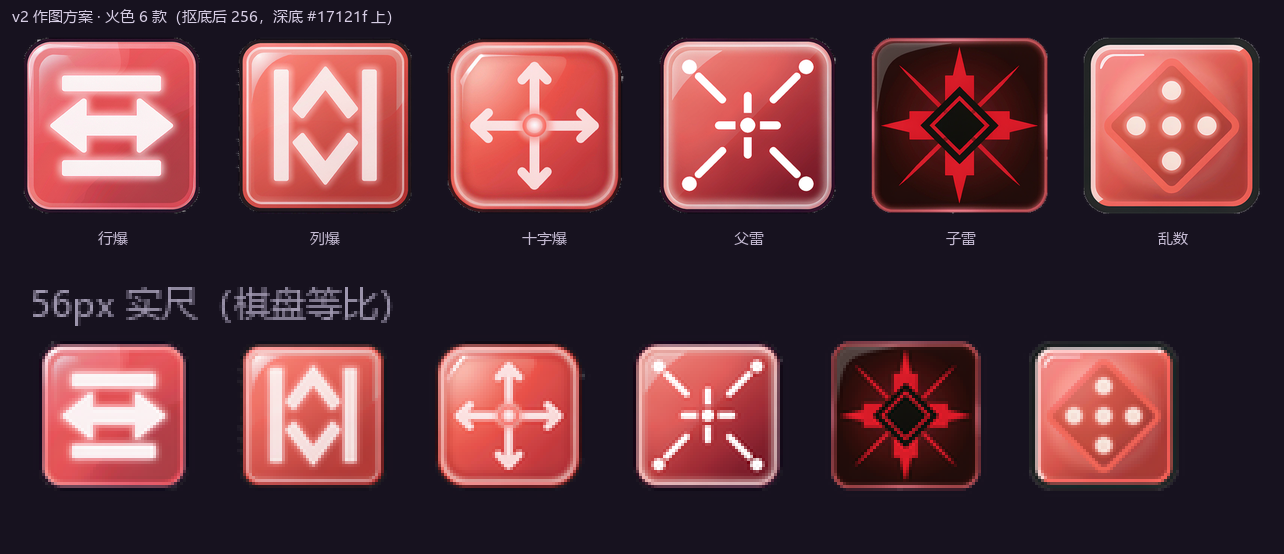
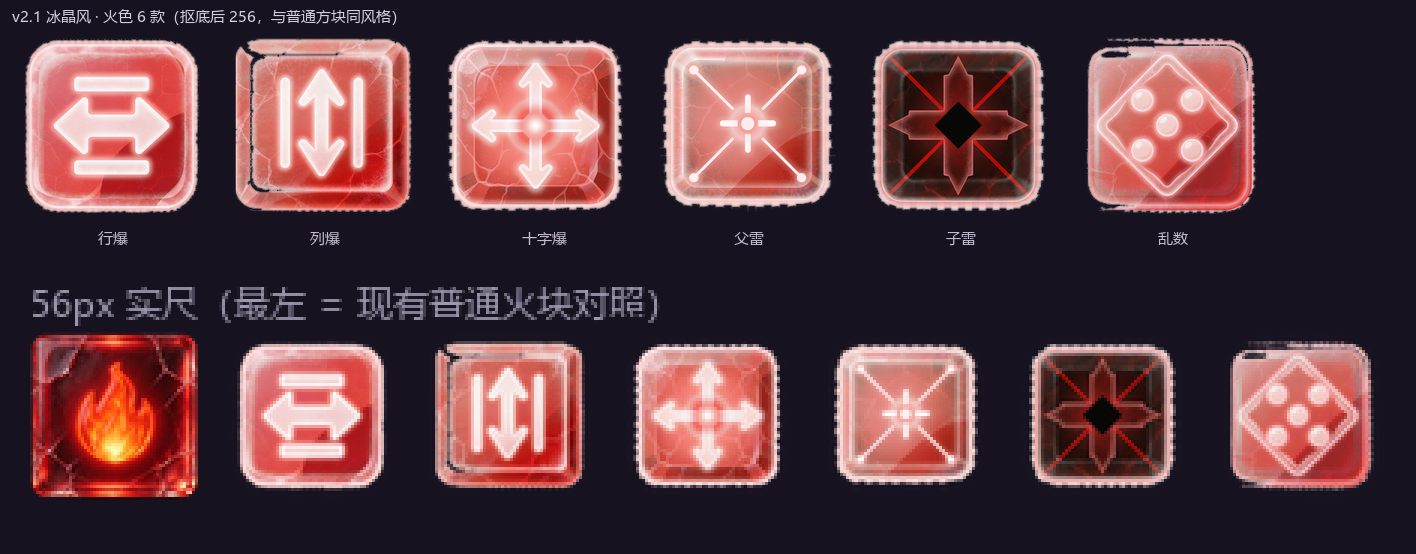
v1.17.37 art(special): 样板风格修正——冰晶风对齐普通方块，火色6款重定稿
- 用户反馈样板与普通方块风格不一致：普通块为半透明冰晶/琉璃（边缘泛白光、
  内部细裂纹、无黑粗描边），首版做成黑粗描边实心糖果玻璃
- A段重写 v2.1：translucent crystal glass + crackle veins + 亮边外发光，
  负面词增补 no thick dark outline / no black border / no opaque plastic
- 火色6款重出定稿（父雷再迭代1版：四角端点由方块改回小圆点）
- 验收图 red_sheet.png 增加 56px 普通火块对照位，材质一致性肉眼可对
- 文档同步：色板'描边#14101b'条目废弃，改'无深色描边'规范

diff --git a/tools/_v2_red_sheet.py b/tools/_v2_red_sheet.py
@@ -4,18 +4,19 @@ import os
 from PIL import Image, ImageDraw, ImageFont, ImageFilter
 from collections import deque
 
-SRC = 'F:/workspace/towerdefence/art/special_blocks_v2/red'
+SRC = 'F:/workspace/towerdefence/art/special_blocks_v2/red2'
 OUT = 'F:/workspace/towerdefence/art/special_blocks_v2'
 TOL = 45
 
 JOBS = [
-    ('row',   '2D_match_3_game_special_tile___2026-10-29T15-44-34.png', '行爆'),
-    ('col',   '2D_match_3_game_special_tile___2026-10-29T15-44-46.png', '列爆'),
-    ('cross', '2D_match_3_game_special_tile___2026-10-29T15-45-01.png', '十字爆'),
-    ('split', '2D_match_3_game_special_tile___2026-10-29T15-49-40.png', '父雷'),
-    ('sub',   '2D_match_3_game_special_tile___2026-10-29T15-48-02.png', '子雷'),
-    ('rand',  '2D_match_3_game_special_tile___2026-10-29T15-50-40.png', '乱数'),
+    ('row',   '2D_match_3_game_tile__a_single_2026-10-29T15-56-25.png', '行爆'),
+    ('col',   '2D_match_3_game_tile__a_single_2026-10-29T15-56-38.png', '列爆'),
+    ('cross', '2D_match_3_game_tile__a_single_2026-10-29T15-56-52.png', '十字爆'),
+    ('split', '2D_match_3_game_tile__a_single_2026-10-29T15-59-17.png', '父雷'),
+    ('sub',   '2D_match_3_game_tile__a_single_2026-10-29T15-57-41.png', '子雷'),
+    ('rand',  '2D_match_3_game_tile__a_single_2026-10-29T15-57-52.png', '乱数'),
 ]
+NORMAL = 'F:/workspace/towerdefence/assets/images/board/fire.png'   # 普通块风格对照
 
 
 def keyout(src):
@@ -155,16 +156,17 @@ for name, fn, label in JOBS:
 C = 200; G = 12
 sheet = Image.new('RGBA', (6 * C + 7 * G, C + 3 * G + 26), (23, 18, 31, 255))
 d = ImageDraw.Draw(sheet)
-d.text((G, 6), 'v2 作图方案 · 火色 6 款（抠底后 256，深底 #17121f 上）', font=font, fill=(214, 205, 228, 255))
+d.text((G, 6), 'v2.1 冰晶风 · 火色 6 款（抠底后 256，与普通方块同风格）', font=font, fill=(214, 205, 228, 255))
 for i, (name, _, label) in enumerate(JOBS):
     sheet.alpha_composite(chips[name].resize((C, C), Image.LANCZOS), (G + i * (C + G), 26))
     d.text((G + i * (C + G) + C // 2 - 14, 26 + C + 2), label, font=font, fill=(196, 186, 210, 255))
 
-row = Image.new('RGBA', (6 * 56 + 7 * 10, 56 + 2 * 10 + 18), (23, 18, 31, 255))
+row = Image.new('RGBA', (7 * 56 + 8 * 10, 56 + 2 * 10 + 18), (23, 18, 31, 255))
 d2 = ImageDraw.Draw(row)
-d2.text((10, 2), '56px 实尺（棋盘等比）', font=font_s, fill=(160, 152, 176, 255))
+d2.text((10, 2), '56px 实尺（最左 = 现有普通火块对照）', font=font_s, fill=(160, 152, 176, 255))
+row.alpha_composite(Image.open(NORMAL).convert('RGBA').resize((56, 56), Image.LANCZOS), (10, 20))
 for i, (name, _, label) in enumerate(JOBS):
-    row.alpha_composite(chips[name].resize((56, 56), Image.LANCZOS), (10 + i * 66, 20))
+    row.alpha_composite(chips[name].resize((56, 56), Image.LANCZOS), (10 + (i + 1) * 66, 20))
 
 final = Image.new('RGBA', (max(sheet.width, row.width * 3), sheet.height + row.height * 3 + 10), (23, 18, 31, 255))
 final.alpha_composite(sheet, (0, 0))

diff --git a/docs/深窟远征-特殊方块图标提示词包.md b/docs/深窟远征-特殊方块图标提示词包.md
@@ -42,7 +42,8 @@
 | purple | `#d4a8e8` | `#8b55b0` | `#f2e2fb` | `#fdf5ff` | `#af7ac5` |
 | orange | `#ffb066` | `#c25f10` | `#ffe0bd` | `#fff7ee` | `#e67e22` |
 
-描边统一：**#14101b**，宽度约为画布 5%（1024 画布约 52px），闭合、圆角、无断口。
+边缘处理：**无深色描边**——用「内缘亮线 + 微弱同色深边」收口，与普通方块（半透明冰晶、边缘泛白光）一致。
+tile 主体半透明：生成时明确 `translucent / frosted / semi-transparent`，避免画成实心塑料。
 
 **子雷例外**：不随来源色变化——恒为红警配色（底 `#3a080e`、线 `#ff9aa5` / `#ff4d5e`），
 仅符号层的菱形与臂尖保留，用于一眼区分「这是子雷，别和十字爆混」。
@@ -55,14 +56,18 @@
 
 ### A 段（把 `{...}` 换成色板值）
 
+> **v2.1 修正**：首版样板用「深黑粗描边 + 高饱和实心糖果」，与现有普通方块
+> （半透明冰晶/琉璃、边缘泛白光、内部细裂纹、无黑描边）风格脱节，已按普通块风格重写 A 段。
+
 ```
-2D match-3 game special tile, a single centered square tile with softly rounded corners viewed
-straight on, filled with a glossy candy-glass gradient of {颜色名}: bright {亮面} at the upper left
-fading into {暗面} at the lower right, one crisp dark outline {#14101b} tracing the whole tile,
-a thin inner rim light {内缘亮线} just inside the edge, a soft white specular streak across the
-upper left corner, gentle inner glow, clean vector-like edges, designed to be perfectly readable
-at 56x56 pixels, stylized casual game art, flat shading with glass highlights, transparent
-background, single subject, centered composition, no other objects
+2D match-3 game tile, a single centered square tile with softly rounded corners viewed straight on,
+made of translucent glowing crystal glass in {颜色名}: a luminous {亮面} core fading into {暗面}
+at the lower right, frosted semi-transparent surface with subtle inner crackle veins like a
+gemstone ice cube, a thin luminous rim light {内缘亮线} outlining the edges with a soft outer
+glow, NO dark outline, the whole tile looks translucent and radiant against transparency,
+gentle inner glow, clean vector-like edges, designed to be perfectly readable at 56x56 pixels,
+stylized casual game art, flat shading with glass highlights, transparent background,
+single subject, centered composition, no other objects
 ```
 
 ### C 段（负面，逐字复用）
@@ -71,7 +76,8 @@ background, single subject, centered composition, no other objects
 no letters, no numbers, no words, no watermark, no logo, no characters, no creatures,
 no background, no ground, no shadow cast on background, no photographic texture, no 3D render,
 no metallic bevel, no blur, no pixel art, only ONE tile, no offset composition,
-no white background, no gray background, no checkered background, no holographic rainbow sheen
+no white background, no gray background, no checkered background, no holographic rainbow sheen,
+no thick dark outline, no black border, no opaque plastic look, no heavy bevel
 ```
 
 ### B 段（六款形状，逐款固定；符号色取色板「符号」，光晕取「光晕」）
